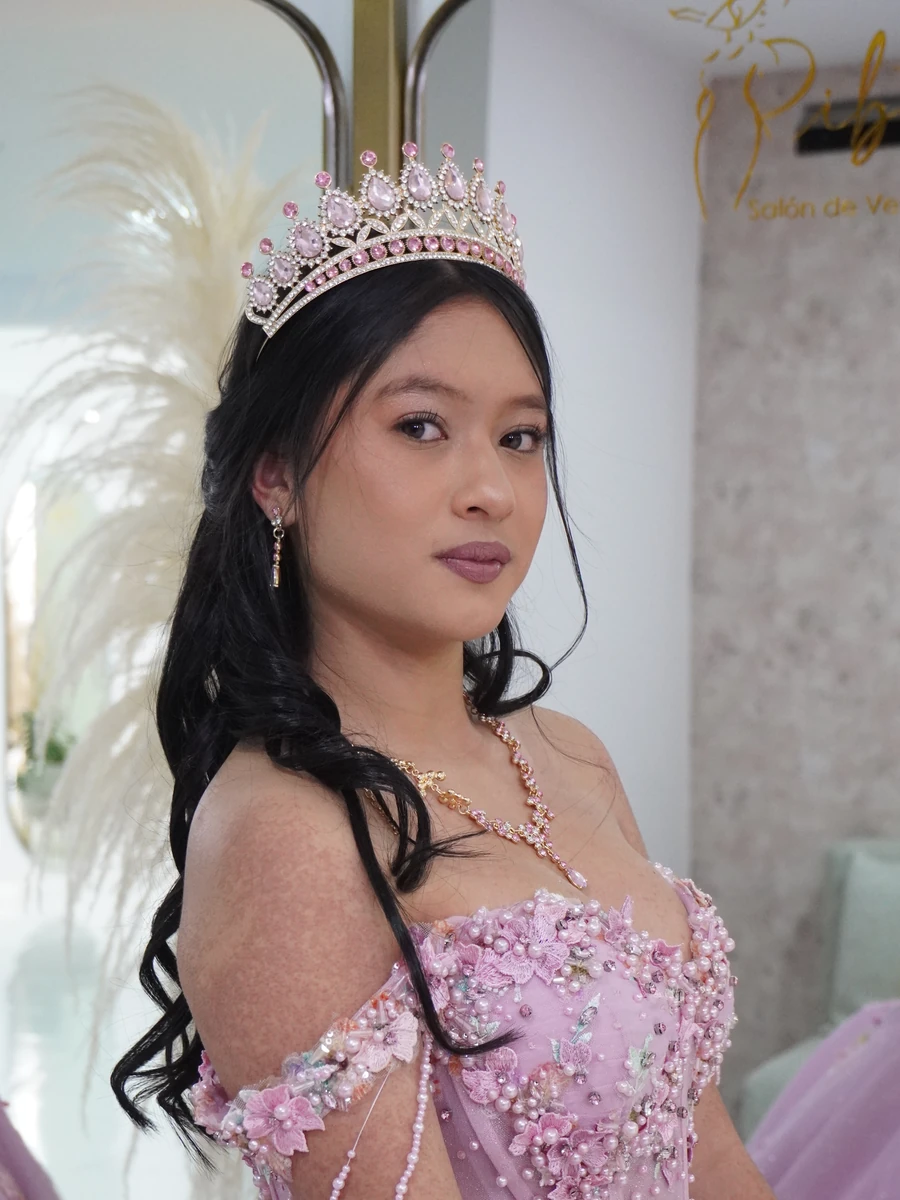
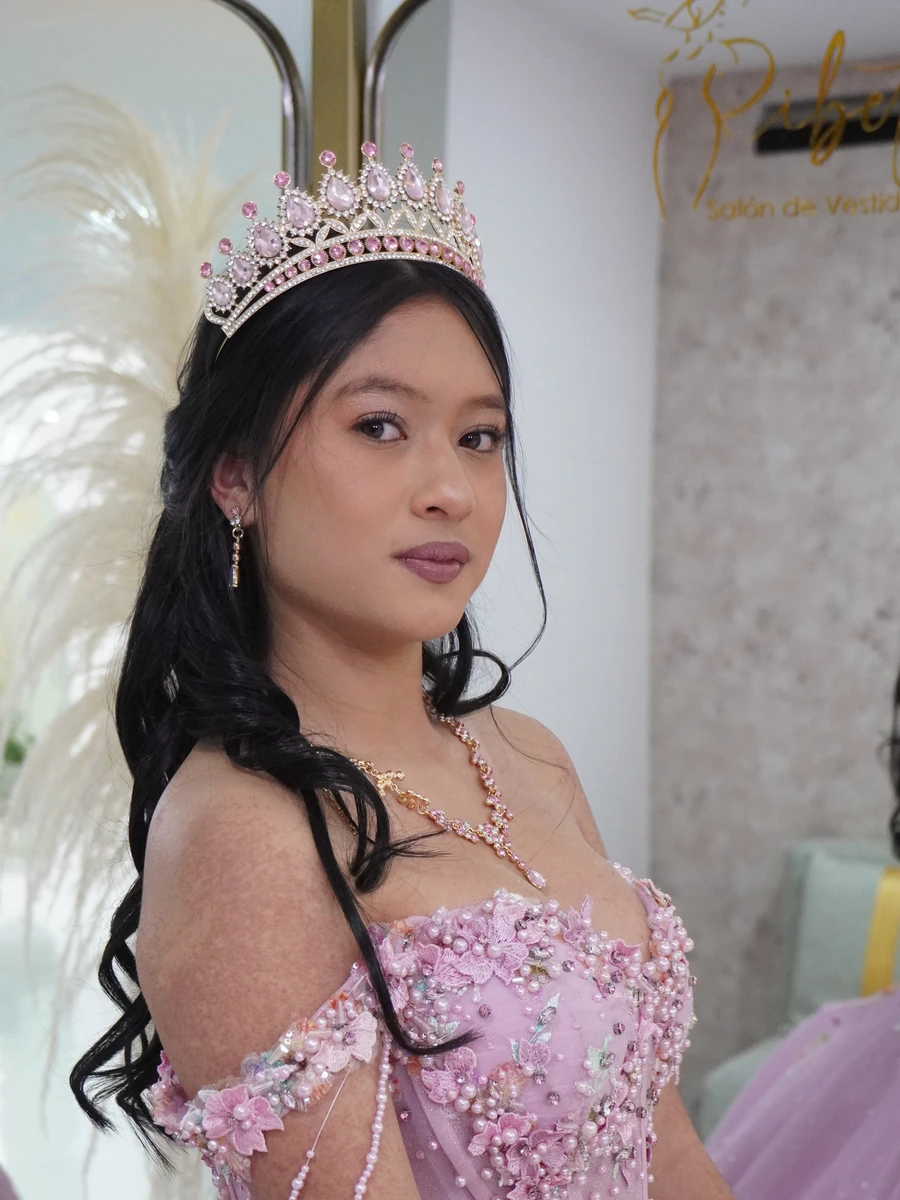
Hero sin linea sobre la corona y sin dañar la cara; marco corrido a la izquierda

diff --git a/css/styles.css b/css/styles.css
@@ -275,11 +275,10 @@ body.is-locked #app { transform: scale(.9); filter: blur(6px); border-radius: 28
   position: relative; height: 100vh; height: 100svh; min-height: 620px; overflow: hidden;
   background: linear-gradient(180deg, #fff 0%, #fdf3f6 35%, #fbe9ef 60%);
 }
-.hero-media {
-  position: absolute; left: 0; right: 0; bottom: 0; height: 66%; z-index: 1;
-  -webkit-mask-image: linear-gradient(to bottom, transparent 0, rgba(0,0,0,.06) 8%, rgba(0,0,0,.22) 18%, rgba(0,0,0,.55) 32%, rgba(0,0,0,.85) 44%, #000 56%);
-  mask-image: linear-gradient(to bottom, transparent 0, rgba(0,0,0,.06) 8%, rgba(0,0,0,.22) 18%, rgba(0,0,0,.55) 32%, rgba(0,0,0,.85) 44%, #000 56%);
-}
+.hero-media { position: absolute; left: 0; right: 0; bottom: 0; height: 66%; z-index: 1; overflow: hidden; }
+/* degradado encima del video (no máscara: Safari de iPhone deja el borde del video duro) */
+.hero-media::after { content: ""; position: absolute; inset: 0 0 auto; height: 60%; z-index: 1; pointer-events: none;
+  background: linear-gradient(to bottom, #fdf3f6 0, rgba(253,243,246,.94) 10%, rgba(253,243,246,.75) 24%, rgba(253,243,246,.4) 42%, rgba(253,243,246,.12) 62%, rgba(253,243,246,0) 100%); }
 .hero-media video { width: 100%; height: 100%; object-fit: cover; object-position: 40% 100%; transform: scale(1.1); transform-origin: 50% 100%; }
 .hero-sky { position: absolute; inset: 0 0 auto; height: 45%; z-index: 1; background: radial-gradient(70% 60% at 50% 0%, rgba(255, 214, 228, .55), transparent 70%); }
 .cloud { position: absolute; z-index: 2; pointer-events: none; }

diff --git a/index.html b/index.html
@@ -22,7 +22,7 @@
   <link href="https://fonts.googleapis.com/css2?family=Parisienne&text=A&display=swap" rel="stylesheet">
 
   <link rel="preload" href="assets/img/valle-poster.webp" as="image">
-  <link rel="stylesheet" href="css/styles.css?v=27">
+  <link rel="stylesheet" href="css/styles.css?v=29">
 </head>
 <body class="is-locked">
 

diff --git a/tools/ronda8_fotos.py b/tools/ronda8_fotos.py
@@ -68,13 +68,10 @@ def main():
     if modo == "hero":
         cut = matte(abrir(FV / "lu.JPG", 1300), (640, 880))
         cut = cut.crop(cut.getbbox()); cut.thumbnail((1400, 1800))
-        # zonas a borrar (px del resultado): arete/hebra suelta del lado izquierdo de la cara, pedacito gris del peinado
+        # arete diminuto del lado izquierdo (de quien mira): elipse pequeña con borde suave, lejos de la mejilla
         al = np.asarray(cut.getchannel("A")).astype(np.float32)
-        z = np.zeros_like(al)
-        for x0, y0, x1, y1 in [(612, 112, 637, 250), (650, 244, 680, 278)]:
-            z[y0:y1, x0:x1] = 1
-        al *= 1 - cv2.GaussianBlur(z, (0, 0), 2)
-        cut.putalpha(Image.fromarray(al.astype(np.uint8)))
+        z = np.zeros_like(al); cv2.ellipse(z, (670, 260), (9, 15), 0, 0, 360, 1, -1)
+        cut.putalpha(Image.fromarray((al * (1 - cv2.GaussianBlur(z, (0, 0), 1.5))).astype(np.uint8)))
         cut.save(IMG / "luisa-xv.webp", "WEBP", quality=90, method=6)
         print("hero", cut.size)
     elif modo == "final":
